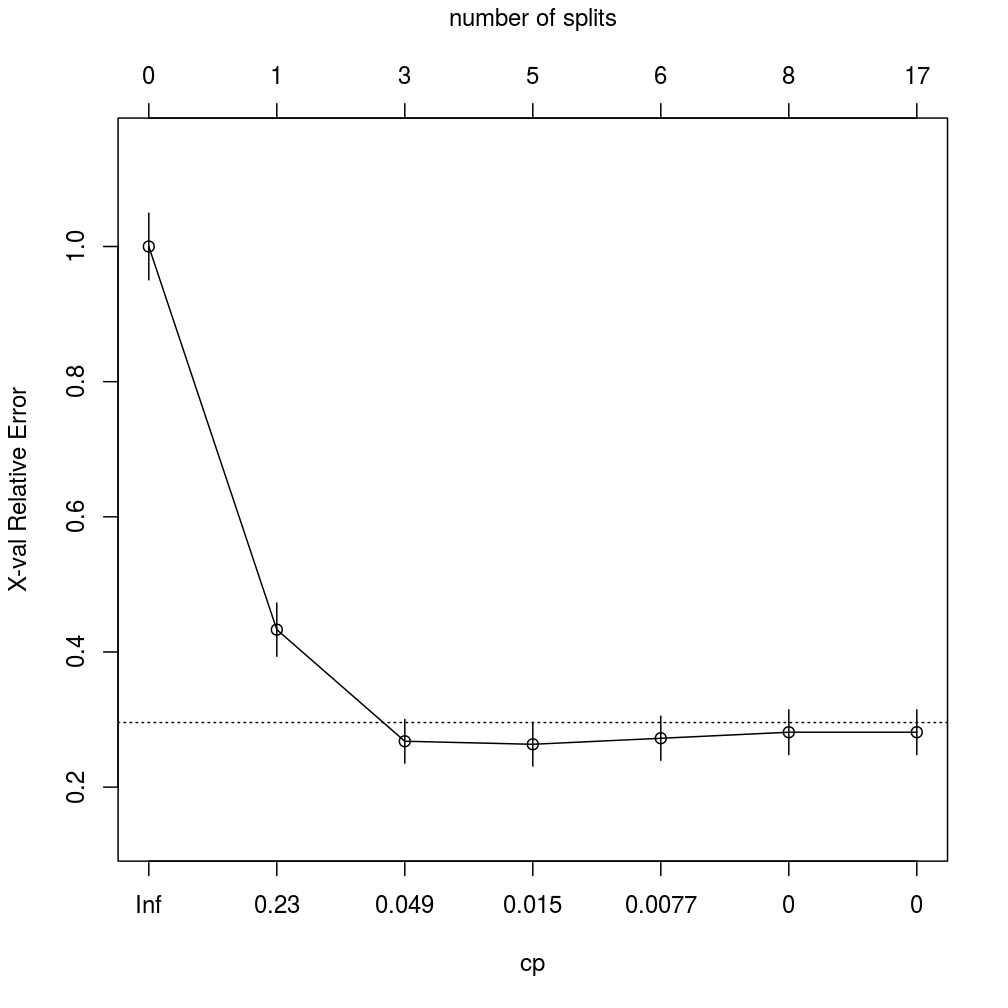
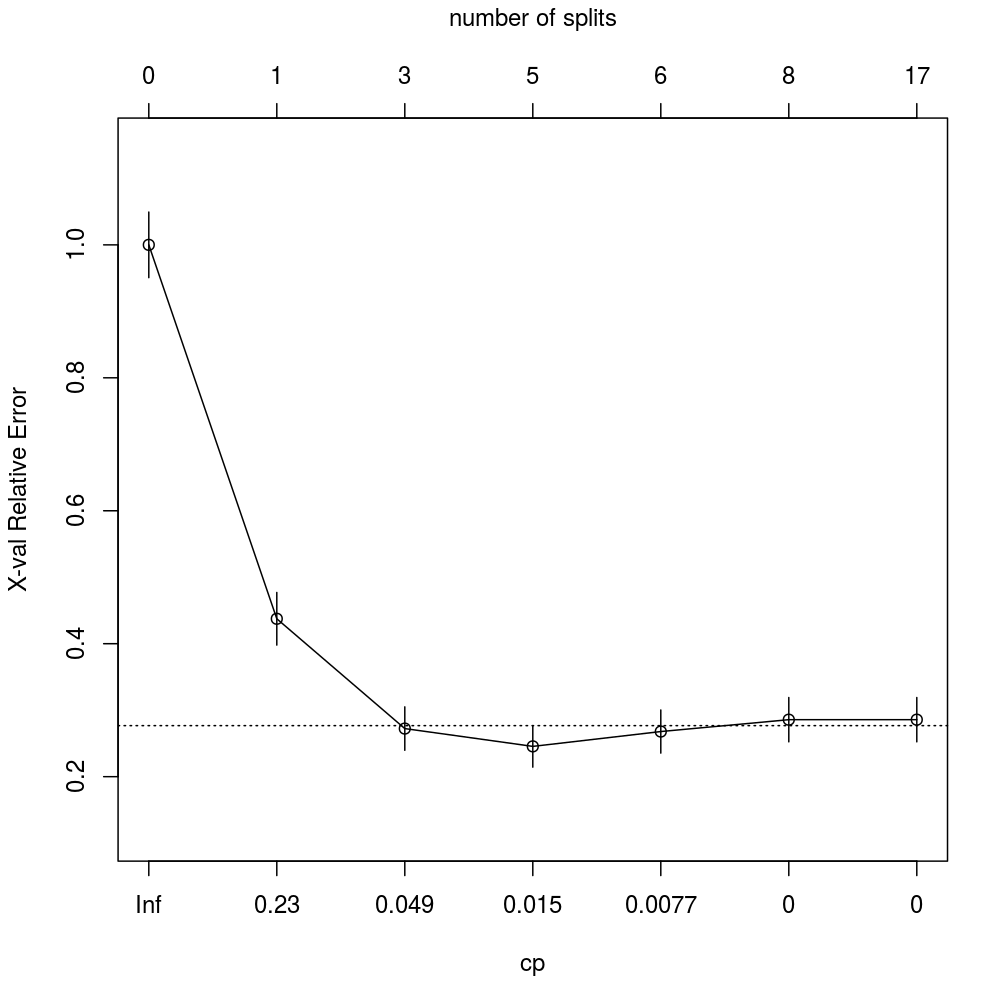
Working on narrative for decision trees

diff --git a/_posts/2017-10-17-classification.md b/_posts/2017-10-17-classification.md
@@ -3,15 +3,16 @@ layout: default
 title: Classification
 tags: [ classification ]
 Rdir: "/R/2017-10-17-classification/"
+featimg: "tree-1.png"
 ---
 
-First paragraph.
+Decision tree model is fitted to toy data on homes in New York and San Francisco (NY, SF).  Along the way overfitting is illustrated.  The optimally fitted tree is used to classify some test data as either NY or SF.
 
-Download presentation [here]({{ site.baseurl }}/assets/machine-learning-attilagk.pdf)
+Download the related presentation [here]({{ site.baseurl }}/assets/machine-learning-attilagk.pdf)
 
-## Data
+## Data and analytical tools
 
-We are going to use the home data from [A visual introduction to machine learning](http://www.r2d3.us/visual-intro-to-machine-learning-part-1/)
+We are going to use the home data and the machine learning approach called decision tree or CART (Classification And Regression Tree) from [A visual introduction to machine learning](http://www.r2d3.us/visual-intro-to-machine-learning-part-1/), referred to here as *visual intro*.  As CART implementation we are going to take advantage of the `rpart` package.  As usual in this blog, we opt for `lattice` graphics.
 
 
 ```r
@@ -24,28 +25,45 @@ opts_chunk$set(out.width = "700px")
 opts_chunk$set(dev = c("png", "pdf"))
 ```
 
+Now read the data...
+
 
 ```r
 home <- read.csv("ny-sf-home-data.csv")
 home <- cbind(data.frame(city = factor(home$in_sf)), home)
 levels(home$city) <- c("NY", "SF")
-head(home)
+head(home, n = 2)
 ```
 
 ```
 ##   city in_sf beds bath   price year_built sqft price_per_sqft elevation
 ## 1   NY     0    2    1  999000       1960 1000            999        10
 ## 2   NY     0    2    2 2750000       2006 1418           1939         0
-## 3   NY     0    2    2 1350000       1900 2150            628         9
-## 4   NY     0    1    1  629000       1903  500           1258         9
-## 5   NY     0    0    1  439000       1930  500            878        10
-## 6   NY     0    0    1  439000       1930  500            878        10
 ```
+
+```r
+tail(home, n = 2)
+```
+
+```
+##     city in_sf beds bath  price year_built sqft price_per_sqft elevation
+## 491   SF     1    1    1 649000       1983  850            764       163
+## 492   SF     1    3    2 995000       1956 1305            762       216
+```
+
+So our data are 492 observations on homes in two cities: New York and San Francisco ($$\mathrm{NY},\mathrm{SF}$$).  We'll treat $$\mathrm{city}$$ (equivalent to the $$\mathrm{in\_sf}$$ variable) as a categorical output with classes $$\mathrm{NY},\mathrm{SF}$$.  The rest of variables (except for $$\mathrm{in\_sf}$$) will be treated as input.
+
+Here we reproduce the scatter plot matrix from *visual intro*.
 
 
 ```r
 trellis.par.set(superpose.symbol = list(pch = 20, alpha = 0.2, col = c(my.col <- c("blue", "green3"), trellis.par.get("superpose.symbol")$col[3:7])))
+splom(~ home[3:9], data = home, groups = city, auto.key = TRUE, pscales = 0)
 ```
+
+<img src="{{ site.baseurl }}/R/2017-10-17-classification/figure/splom-1.png" title="plot of chunk splom" alt="plot of chunk splom" width="700px" />
+
+Elevation seems like an input variable that is informative for distinguishing NY from SF.  But the empirical distribution of elevation for NY overlaps considerably with SF at lower elevations.  Therefore additional variables like $$\mathrm{price\_per\_sqft}$$ would be useful.
 
 
 ```r
@@ -60,18 +78,13 @@ xyplot(elevation ~ price_per_sqft, data = home, groups = city, col = my.col)
 
 <img src="{{ site.baseurl }}/R/2017-10-17-classification/figure/elevation-price-per-sqft-2.png" title="plot of chunk elevation-price-per-sqft" alt="plot of chunk elevation-price-per-sqft" width="700px" />
 
+## CART / decision tree
 
-```r
-splom(~ home[3:9], data = home, groups = city, auto.key = TRUE, pscales = 0)
-```
-
-<img src="{{ site.baseurl }}/R/2017-10-17-classification/figure/splom-1.png" title="plot of chunk splom" alt="plot of chunk splom" width="700px" />
-
-## CART: Classification And Regression Tree (Decision Tree)
-
-Figure 9.2 from Hastie et al 2009 explaining partitions and CART.
+This figure 9.2 from Hastie et al 2009 explains the recursive partitioning of CART.
 
 ![Fig]({{ site.baseurl }}/figures/elements-stats-learning-fig-9.2.jpg)
+
+We first fit the decision tree
 
 
 ```r
